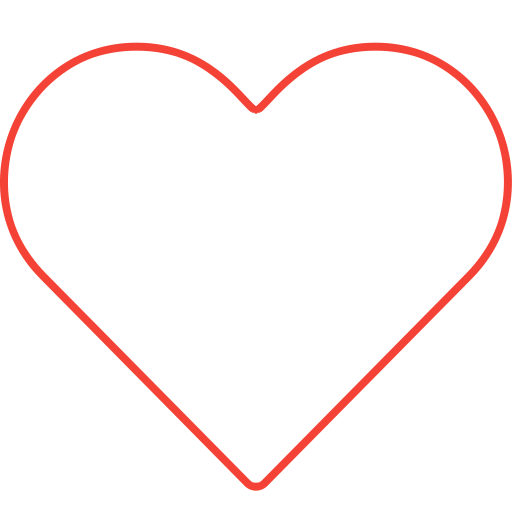
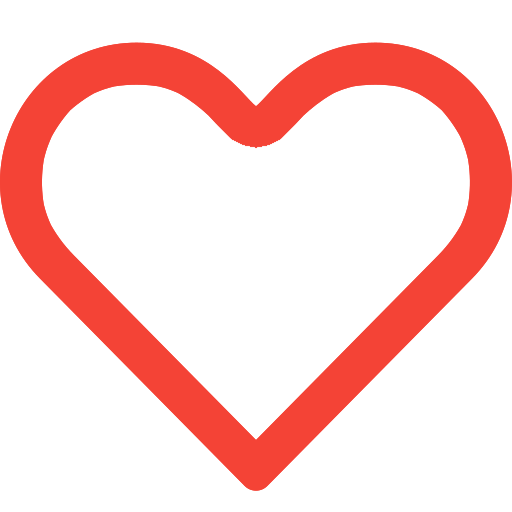
Candados y actualizado sprite corazon vacio

Changed region(s): [[0.0, 0.0938, 1.0, 0.9688]]

diff --git a/GameLogic/src/main/java/com/example/gamelogic/states/WorldLevelSelectionPageLogic.java b/GameLogic/src/main/java/com/example/gamelogic/states/WorldLevelSelectionPageLogic.java
@@ -13,6 +13,8 @@ import com.example.gamelogic.utilities.Color;
 public class WorldLevelSelectionPageLogic extends AbstractState {
     Button returnButton;
     IImage arrow;
+    IImage lockedImg;
+    IImage unlockedImg;
     SizedImage backgroundImg;
     Button levels[][];
     IFont tittleFont; // TODO: Crear una entidad que sea simplemente un texto
@@ -33,6 +35,8 @@ public class WorldLevelSelectionPageLogic extends AbstractState {
             tittleText = new Text(engine, text, tittleFont, LOGIC_WIDTH / 2, (LOGIC_HEIGHT / 2) - 100);
             tittleText.setBackgroundColor(new Color(255,255,255,169));
             tittleText.setBackgruondSize(LOGIC_WIDTH, -1);
+            lockedImg = graphics.newImage(engine.getAssetsPath() + "images/lock.png");
+            unlockedImg = graphics.newImage(engine.getAssetsPath() + "images/unlock.png");
 
             int width = 0, height = 0;
             createBackground();
@@ -55,10 +59,11 @@ public class WorldLevelSelectionPageLogic extends AbstractState {
 
                     // Create the button
                     levels[i][j] = new Button(xPos, yPos, width, height, engine);
-                    levels[i][j].setBorderSize(4);
+                    levels[i][j].setBorderSize(8);
                     levels[i][j].setBorderColor(183, 210, 79);
-                    levels[i][j].setBackgroundColor(240, 240, 240, 255);
+                    levels[i][j].setBackgroundColor(0, 0, 0, 169);
                     levels[i][j].setPadding(5, 5);
+                    levels[i][j].setImage(unlockedImg);
 
                     final String level = getLevelName(type, i);
                     levels[i][j].setCallback(new IInteractableCallback() {
